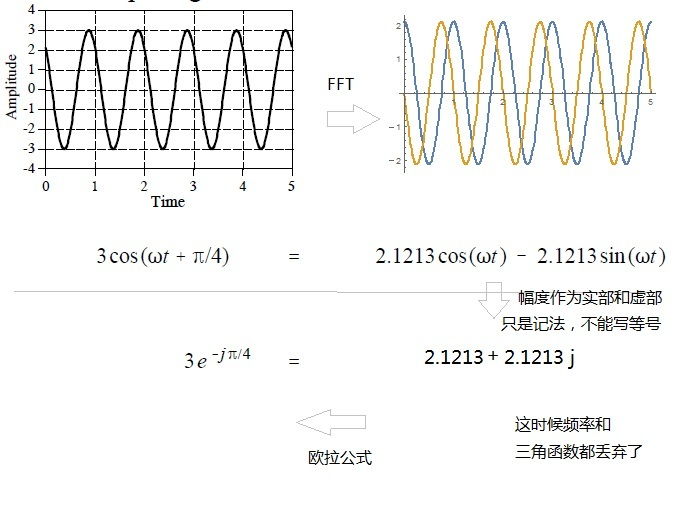
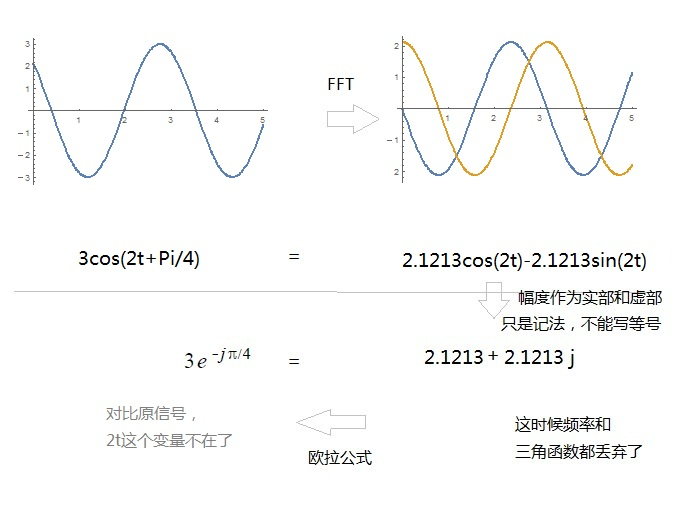
x

diff --git a/数字信号处理导论读书笔记.md b/数字信号处理导论读书笔记.md
@@ -245,13 +245,13 @@ mathematica软件也有一组函数对应上述四种情形：
 
 实数DFT可以认为是这样一个系统：
 
-1. 输入N个离散点组成的信号x(n)，n取值为0到N-1.
-2. 输出为有 N/2 + 1 个复数点的**X**(k)，k取值为0到N/2.
-3. **X**(k)被称为x(n)频域信号，x(n)被称为时域信号
+1. 输入N个离散点组成的信号x[n]，n取值为0到N-1.
+2. 输出为有 N/2 + 1 个实部和虚部变量ReX[k]和ImX[k]，k取值为0到N/2.
+3. ReX[k]/ImX[k]被称为x[n]的频域信号，x[n]被称为时域信号
 
 输入输出的关系是：
 
-这些复数**X**(k)的实部是对应Cos分量的幅度，其虚部是对应Sin分量的幅度。这些分量叠加起来，即可合成x(n)。公式里的X上面加了一横，与X有直接关系。具体关系公式不抄录了。
+实部是对应Cos分量的幅度，虚部是对应Sin分量的幅度。这些分量叠加起来，即可合成x[n]。公式里的X上面加了一横，与X有直接关系。具体关系公式不抄录了。
 
 ![](img/dsp/DFT_concept.jpg)
 
@@ -268,6 +268,8 @@ mathematica软件也有一组函数对应上述四种情形：
 	Table[INPUT[i], {i, 0, NUM/2}]//N
 
 可以看到，最后输出的INPUT值和input值是一致的。
+
+需要注意的是，实数DFT可以这样理解，但后面第三十章提到的复数DFT，分量就不是Cos和Sin，而是一个复数，每个分量都是cos+j*sin的形式。
 
 c代码实现版本：
 
@@ -1403,7 +1405,7 @@ ROC曲线越往左上角靠拢，算法的分类/目标检测的性能越好。
 DCT变换是DFT的近亲，只使用了cos分量。 
 
 1. 假设有下标编号为0到N-1的N个实数，  将0到N-2这N-1个实数逆序、追加到之前的数列右侧，就得到了2N-1个数，且以第N-1个数为中心左右对称，即零相位信号，不只是线性相位信号。
-2. 对这2N-1个数做实数的DFT变换，得到下标编号为0到（2N-1)/2=N-1的N个ReX和ImX（和原数列个数一样），由于原数列是零相位信号，所以ImX都为0，只保留N个ReX即可。
+2. 对这2N-1个数做实数DFT变换，得到下标编号为0到（2N-1)/2=N-1的N个ReX和ImX（和原数列个数一样），由于原数列是零相位信号，所以ImX都为0，只保留N个ReX即可。
 
 下面一段代码演示DCT变换后，去除高频分量，对时间域/空域的数据影响不大的这个有损压缩：
 
@@ -1472,11 +1474,52 @@ DCT变换是DFT的近亲，只使用了cos分量。
 
 **容易混淆，特别明确：**
 
-DFT/FFT在物理意义上不是将信号分解为复数，而是分解为正弦分量和余弦分量，为了借用复数表示的简洁，把同频率的余弦分量的幅度用复数的实部表示、正弦分量的幅度取反用复数的虚部表示，这里也没有欧拉公式什么事情。cos和sin分量直接被扔掉了，即只关心分量的幅度。
+我们看到实数DFT的输出经常是复数或者是带虚数单位的自然指数，并不是说实数DFT在物理意义上不是将信号分解为复数，而是分解为正弦分量和余弦分量，为了方便记录，输出结果借用复数，把同频率的余弦分量的幅度用复数的实部表示、正弦分量的幅度取反用复数的虚部表示，这里也没有欧拉公式什么事情。cos和sin分量直接被扔掉了，即只关心分量的幅度。
 
 如下图所示，注意不要把信号分量的cos/sin与欧拉公式里的cos sin搞混了，他们是完全不同的东西：
 
 ![](img/dsp/Euler3.jpg)
+
+# 第三十一章：复数DFT #
+
+没有特别深刻的理解本章，把基本公式誊抄一下。
+
+傅里叶变换都有分析等式和合成等式，也就是正向变换和逆向变换。
+
+正向变换，计算出各个基准函数的系数，是求各个分量的幅度的过程，即分析信号的频谱；
+
+逆向变换，用正向变换求得的系数，乘以相应的基准函数，合成时间域信号。
+
+## 实数DFT ##
+
+实数DFT的基准函数是余弦和正弦函数：即cos(2Pi*k*i/N)和sin(2Pi*k*i/N)，其中i是时间域的下标，k是频域的下标。
+
+实数DFT的分析等式，相比复数DFT不那么优雅，需要特殊处理0和N/2这两个ReX：
+
+![](img/dsp/real_dft1.jpg)
+
+实数DFT的合成等式：
+
+![](img/dsp/real_dft2.jpg)
+
+## 复数DFT ##
+
+复数DFT的基准函数不是正弦/余弦函数，也就是说复数DFT不是把信号分解成正弦和余弦分量。复数DFT的基函数如下，其中n是时间域的下标，k是频域的下标
+
+	cos(2Pi*kn/N ) + j sin(2Pi*kn/N)
+
+复数DFT的分析等式：
+
+![](img/dsp/complex_dft1.jpg)
+
+复数DFT的合成等式：
+
+![](img/dsp/complex_dft2.jpg)
+
+傅里叶变换的四种形式都有复数版本和实数版本，每个版本都有分析等式和合成等式，也就是正向和逆向变换。
+
+
+
 
 
 
